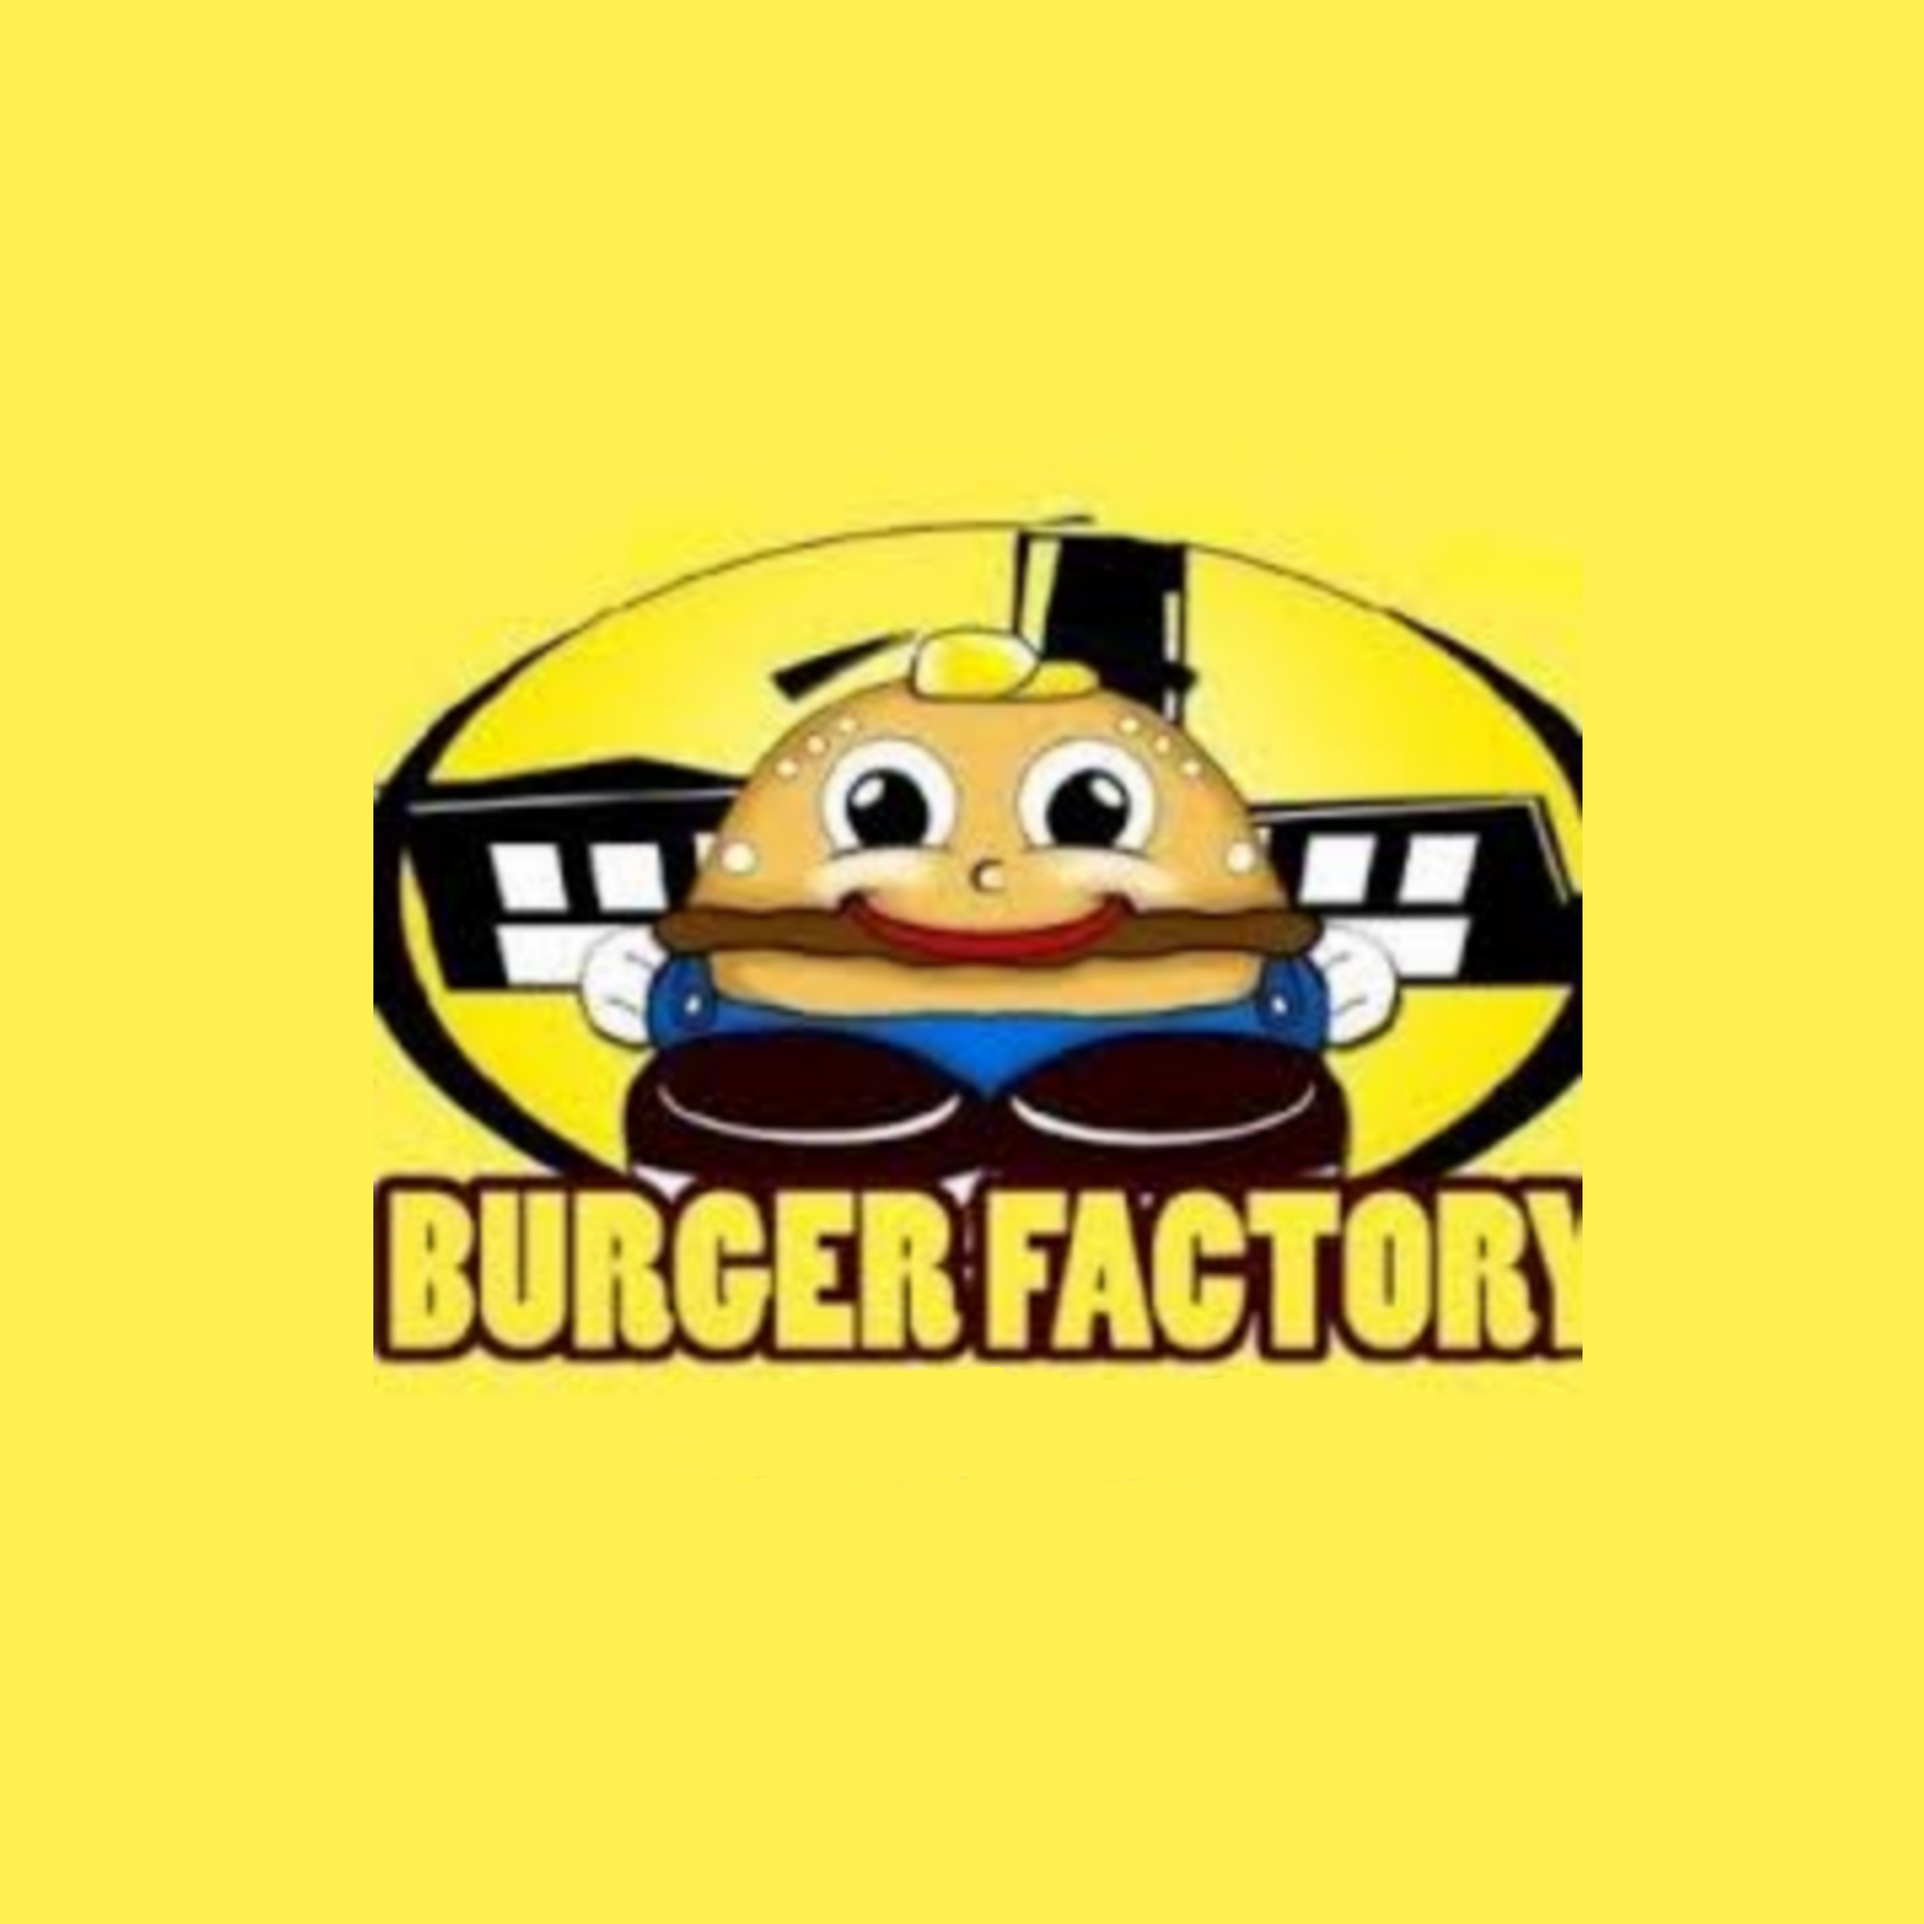
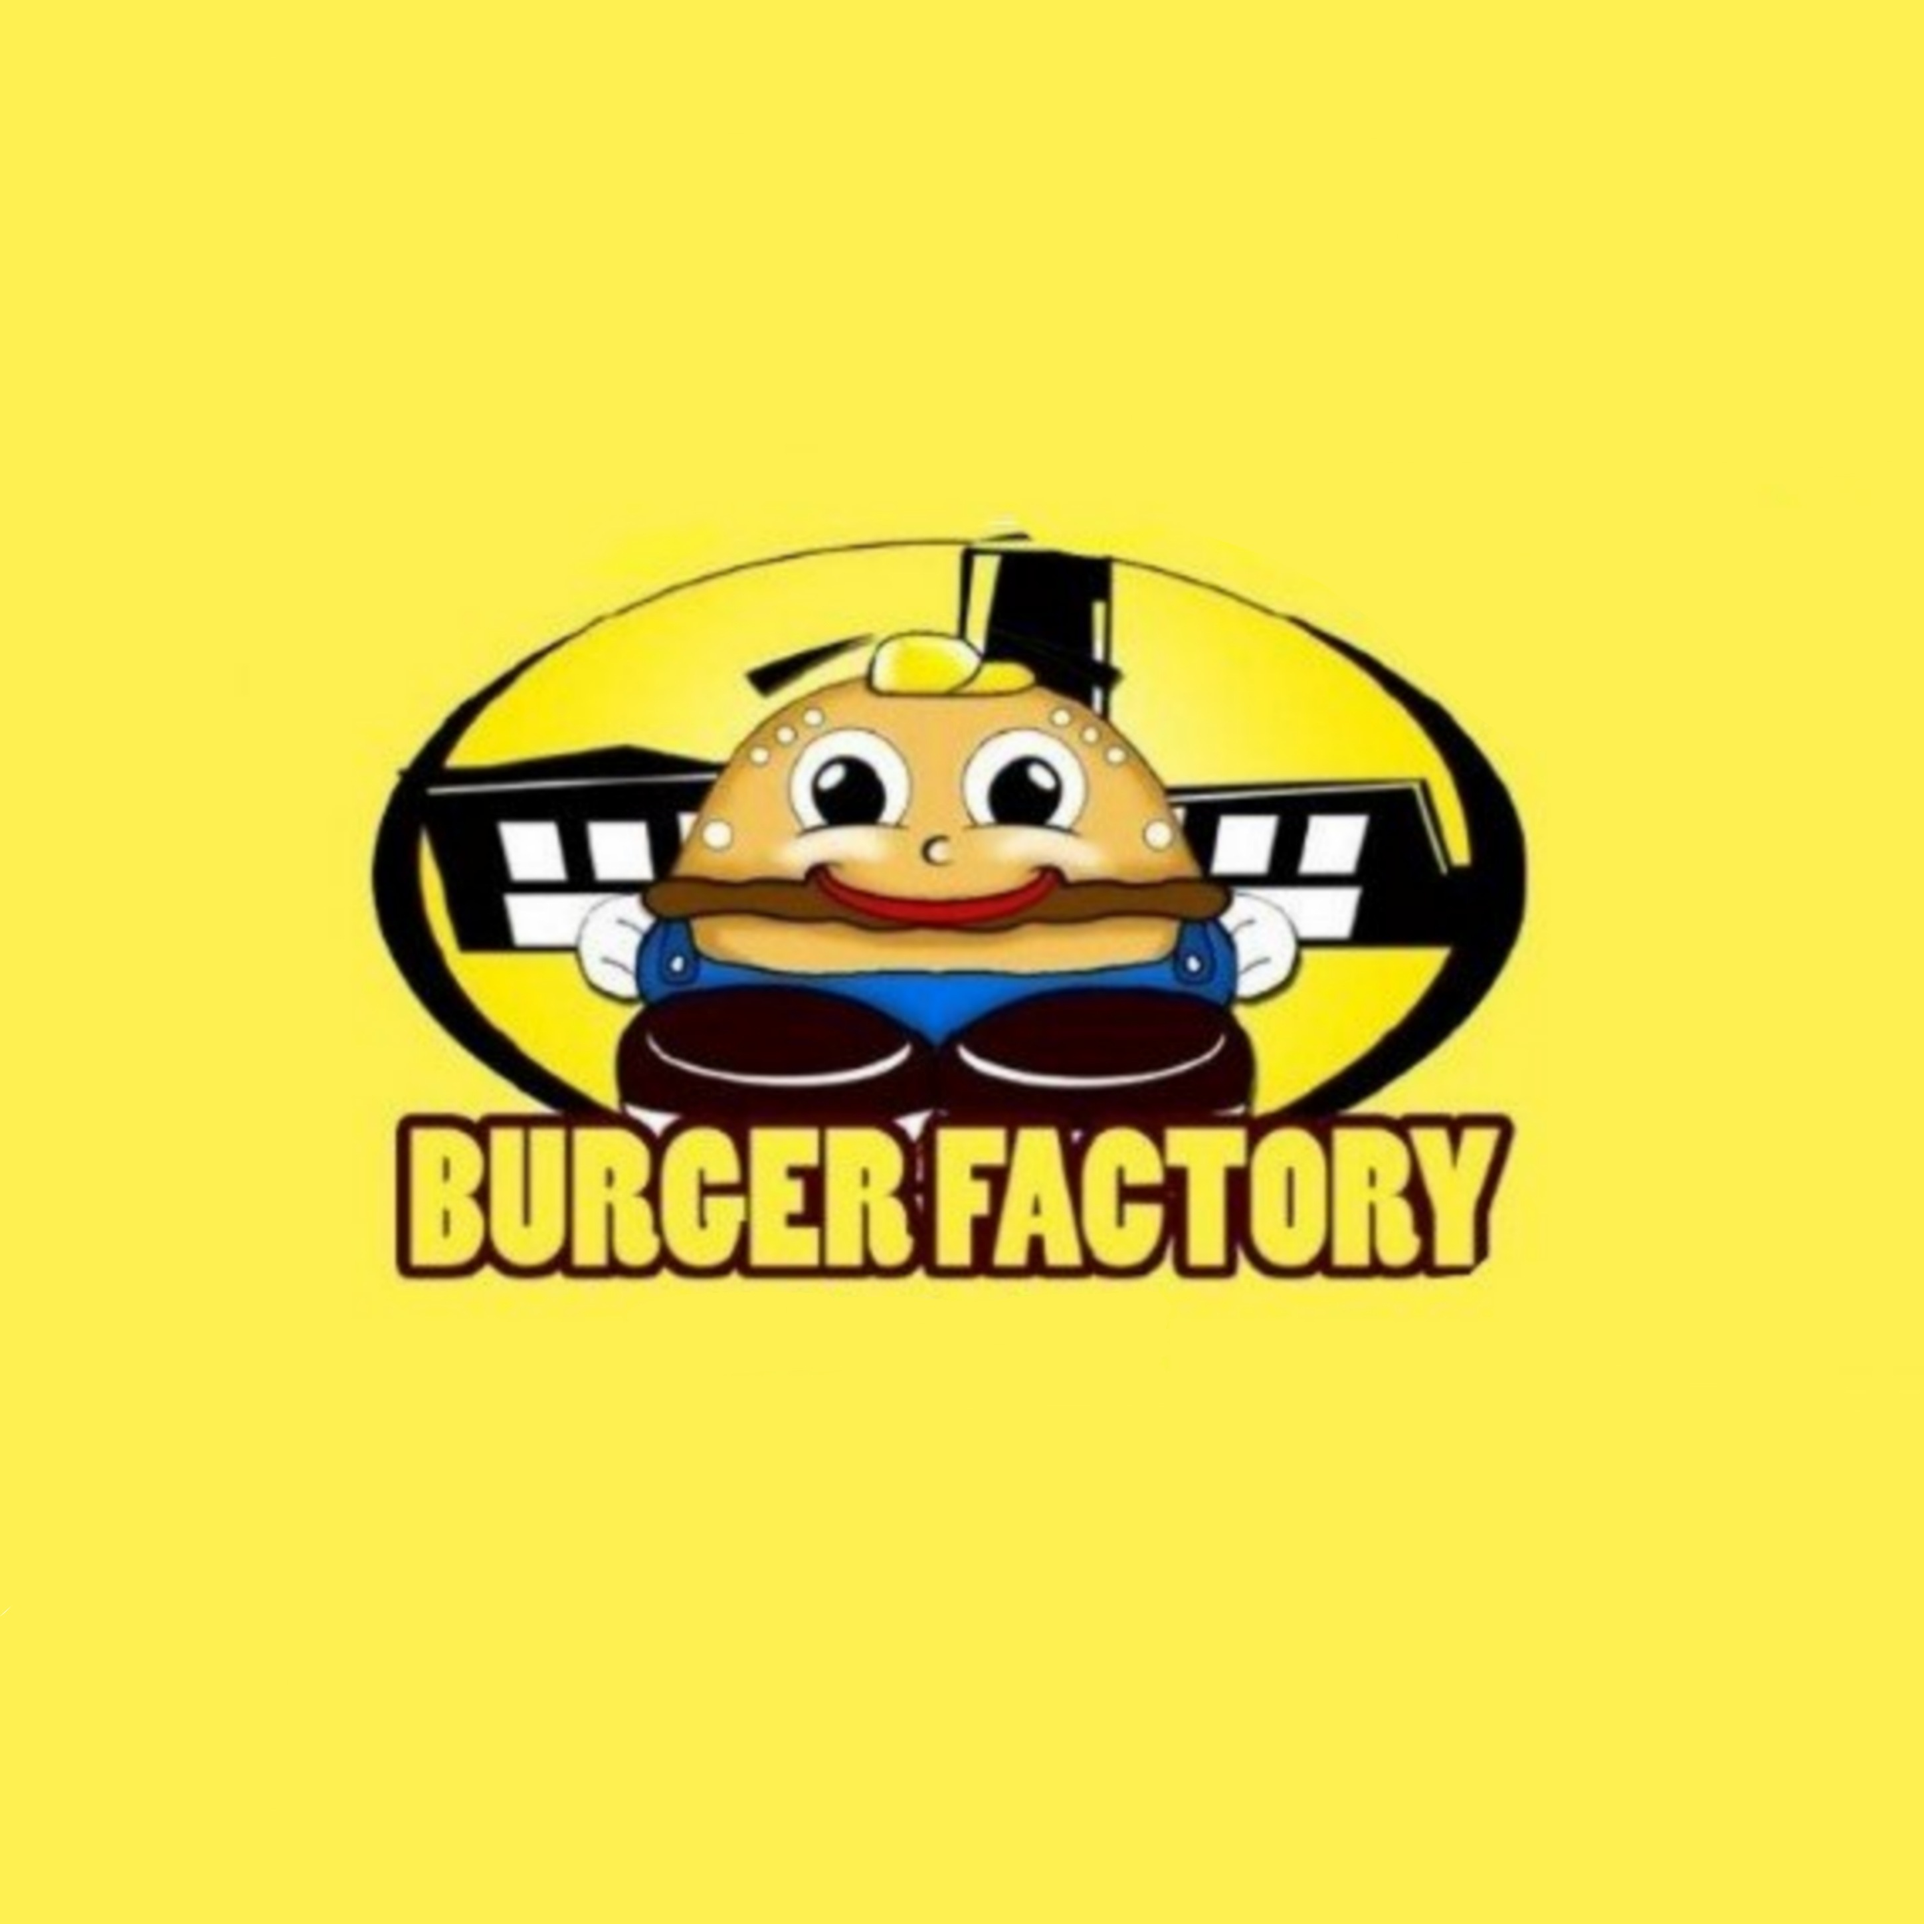
new pictures

Changed region(s): [[0.1865, 0.2486, 0.8391, 0.7148]]

diff --git a/index.html b/index.html
@@ -53,31 +53,31 @@
 									</header>
 									<div class="content">
 										<div class="media">
-											<a href="images/Siopao_da_king.jpg"><img src="images/Siopao_da_king.jpg" alt="" title="<a href='https://siomaiking.ph/skshop/00540530#search=Siopao%20Da%20King' target='_blank' class='button'>Shop Now at Siopao Da King</a>"//></a>
+											<a href="images/siopao.png"><img src="images/siopao_da_king.png" alt="" title="<a href='https://siomaiking.ph/skshop/00540530#search=Siopao%20Da%20King' target='_blank' class='button'>Shop Now at Siopao Da King</a>"//></a>
 										</div>
 										<div class="media">
-											<a href="images/mang_boks.png"><img src="images/mang_boks.png" alt="" title="<a href='https://mangboks.ph/00540530' target='_blank' class='button'>Shop Now at Mang Bok's</a>" /></a>
+											<a href="images/manok.jpg"><img src="images/mang_boks.jpg" alt="" title="<a href='https://mangboks.ph/00540530' target='_blank' class='button'>Shop Now at Mang Bok's</a>" /></a>
 										</div>
 										<div class="media">
-											<a href="images/boy_bondat.jpg"><img src="images/boy_bondat.jpg" alt="" title="<a href='https://boybondat.ph/cpshop/00540530' target='_blank' class='button'>Shop Now at Boy Bondat</a>"/></a>
+											<a href="images/sisig.png"><img src="images/boy_bondat.png" alt="" title="<a href='https://boybondat.ph/cpshop/00540530' target='_blank' class='button'>Shop Now at Boy Bondat</a>"/></a>
 										</div>
 										<div class="media">
-											<a href="images/potato_king.jpg"><img src="images/potato_king.jpg" alt="" title="<a href='https://siomaiking.ph/skshop/00540530#search=Potato%20King' target='_blank' class='button'>Shop Now at Potato King</a>"/></a>
+											<a href="images/fries.jpg"><img src="images/potato_king.png" alt="" title="<a href='https://siomaiking.ph/skshop/00540530#search=Potato%20King' target='_blank' class='button'>Shop Now at Potato King</a>"/></a>
 										</div>
 										<div class="media">
-											<a href="images/siomai_king.jpg"><img src="images/siomai_king.jpg" alt="" title="<a href='https://siomaiking.ph/skshop/00540530' target='_blank' class='button'>Shop Now at Siomai King</a>"/></a>
+											<a href="images/siomai.jpg"><img src="images/siomai_king.jpg" alt="" title="<a href='https://siomaiking.ph/skshop/00540530' target='_blank' class='button'>Shop Now at Siomai King</a>"/></a>
 										</div>
 										<div class="media">
-											<a href="images/burger_factory.jpg"><img src="images/burger_factory.jpg" alt="" title="<a href='https://siomaiking.ph/skshop/00540530#search=Burger%20Factory target='_blank' class='button'>Shop Now at Burger Factory</a>"/></a>
+											<a href="images/burger.jpg"><img src="images/burger_factory.jpg" alt="" title="<a href='https://siomaiking.ph/skshop/00540530#search=Burger%20Factory target='_blank' class='button'>Shop Now at Burger Factory</a>"/></a>
 										</div>
 										<div class="media">
-											<a href="images/ninja_ion.jpg"><img src="images/ninja_ion.jpg" alt="" title="<a href='https://ninjaph.com/cpshop/00540530' target='_blank' class='button'>Shop Now at Ninja Ion</a>"/></a>
+											<a href="images/ninja.jpg"><img src="images/ninja_ion.jpg" alt="" title="<a href='https://ninjaph.com/cpshop/00540530' target='_blank' class='button'>Shop Now at Ninja Ion</a>"/></a>
 										</div>
 										<div class="media">
-											<a href="images/toktok.png"><img src="images/toktok.png" alt="" title="<a href='https://www.toktok.ph/delivery/00540530' target='_blank' class='button'>Book Now at Toktok</a>"/></a>
+											<a href="images/toktok1.png"><img src="images/toktok.png" alt="" title="<a href='https://www.toktok.ph/delivery/00540530' target='_blank' class='button'>Book Now at Toktok</a>"/></a>
 										</div>
 										<div class="media">
-											<a href="images/coppermask.jpg"><img src="images/coppermask.jpg" alt="" title="<a href='https://coppermask.ph/cpshop/00540530' target='_blank' class='button'>Shop Now at Coppermask</a>" /></a>
+											<a href="images/coppermask.png"><img src="images/coppermask.jpg" alt="" title="<a href='https://coppermask.ph/cpshop/00540530' target='_blank' class='button'>Shop Now at Coppermask</a>" /></a>
 										</div>
 									</div>
 									<!-- <footer>

diff --git a/assets/css/main.css b/assets/css/main.css
@@ -1398,7 +1398,6 @@
 		background: #0d1217;
 		z-index: 10002;
 		position: absolute;
-		width: 4em;
 	}
 
 		#nav ul {
